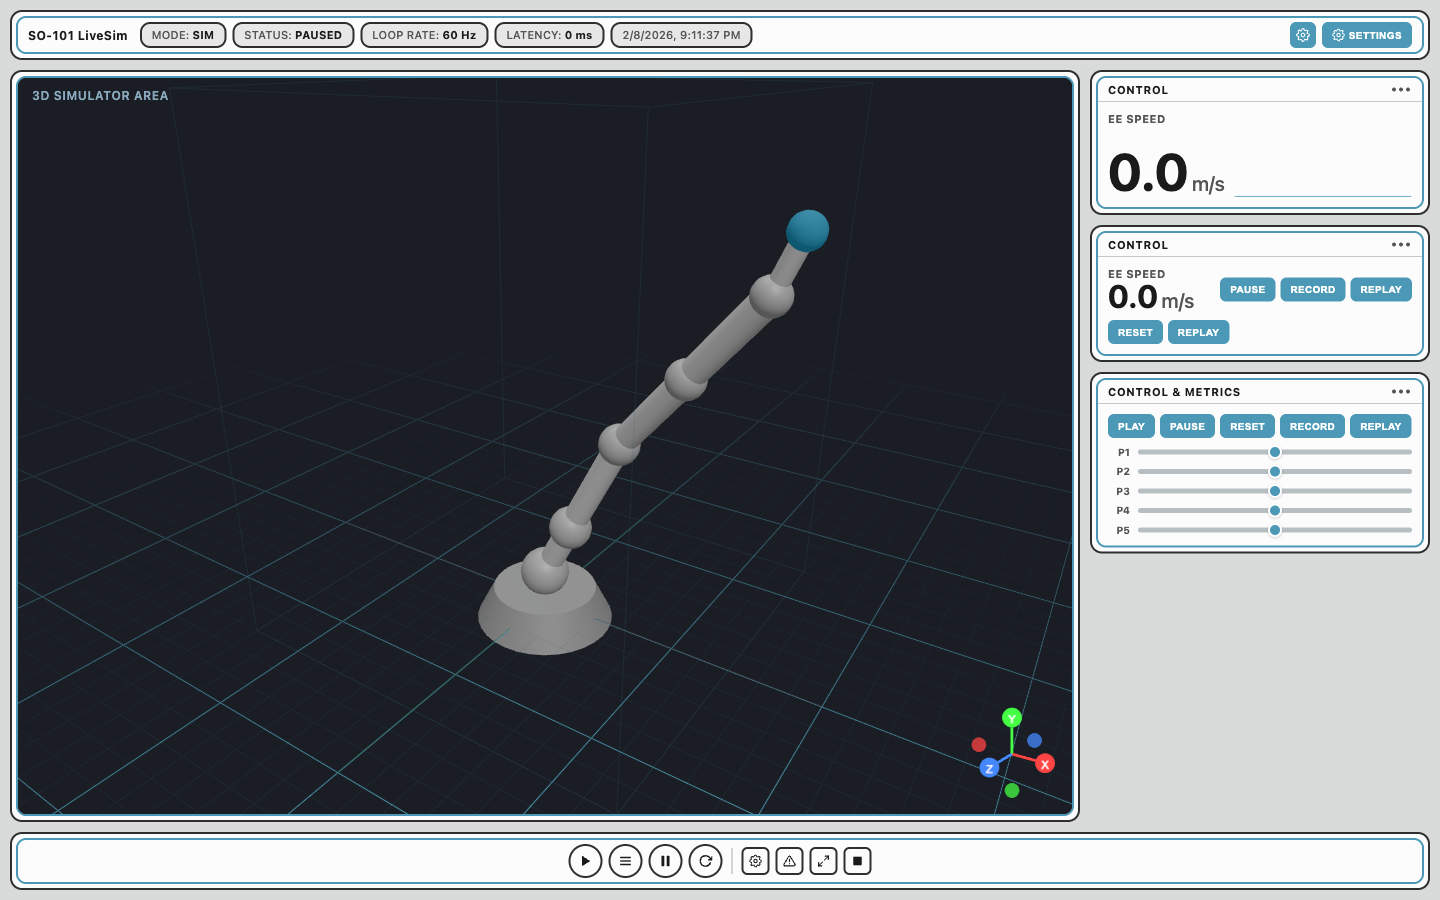
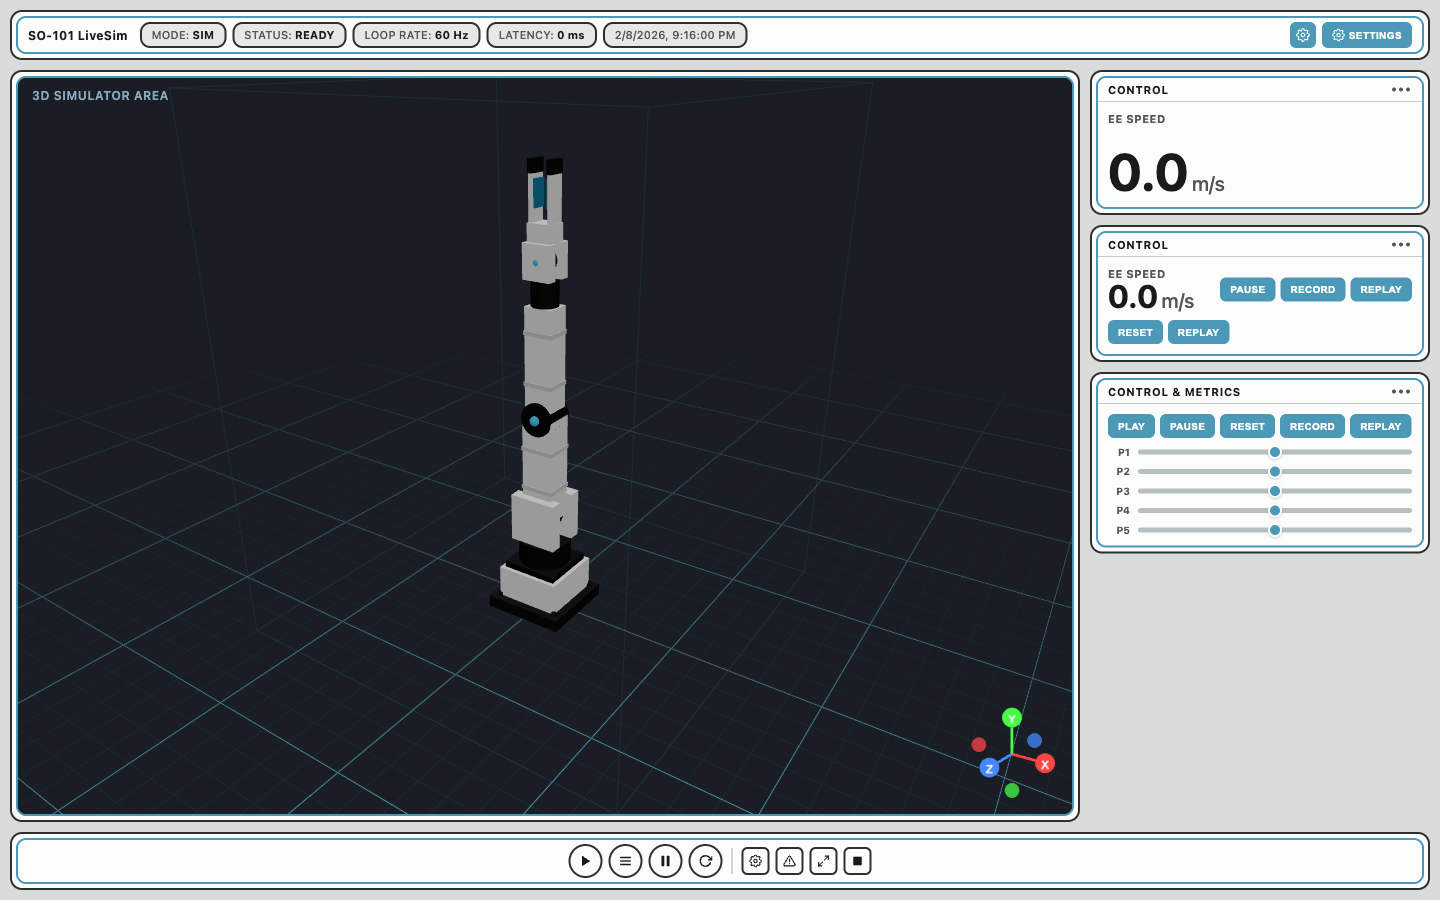
Rebuild robot arm model to match SO-101 appearance
Replace thin cylinder+sphere stick figure with a proper articulated
SO-101 style robot arm:
- Chunky white body panels (box geometries) for each link
- Dark motor housings at each joint (cylinders)
- Teal accent dots at joint pivots
- Two-finger gripper with dark tips and teal grip pads
- Shoulder brackets, detail strips, mounting hole decorations
- Proper proportions matching the SO-101 reference render

Changed region(s): [[0.3125, 0.1556, 0.5938, 0.7467], [0.2188, 0.0311, 0.5312, 0.0622]]

diff --git a/so101-livesim/frontend/src/sim/RobotArmPlaceholder.tsx b/so101-livesim/frontend/src/sim/RobotArmPlaceholder.tsx
@@ -3,8 +3,11 @@ import { useFrame } from "@react-three/fiber";
 import * as THREE from "three";
 
 /**
- * Placeholder 6-DOF robot arm — light/white appearance to match
- * the reference image (white robot on dark 3D background).
+ * SO-101 style 6-DOF robot arm placeholder.
+ *
+ * Built from box/cylinder geometries to match the chunky white
+ * SO-101 appearance: white body panels, dark motor housings,
+ * teal accent dots at joint pivots, and a two-finger gripper.
  *
  * Future: replace with a URDF-loaded mesh.
  */
@@ -13,13 +16,15 @@ interface Props {
   jointsRef: React.MutableRefObject<number[]>;
 }
 
-const LINK_LENGTHS = [0.0, 0.077, 0.13, 0.124, 0.126, 0.0615];
-const LINK_COLOR = "#e8e8e8";
-const JOINT_COLOR = "#d0d0d0";
-const EE_COLOR = "#4b99b7";
-const BASE_COLOR = "#c0c0c0";
+// Colours matching the SO-101 reference render
+const WHITE = "#f0f0f0";
+const DARK = "#2a2a2a";
+const ACCENT = "#4b99b7";
+const GRAY = "#d8d8d8";
 
-const SCALE = 3.0;
+// Scale factor — the robot is modelled in ~0.5m total height,
+// scaled up so it looks good in the scene
+const S = 2.8;
 
 export default function RobotArmPlaceholder({ jointsRef }: Props) {
   const j0 = useRef<THREE.Group>(null!);
@@ -32,57 +37,89 @@ export default function RobotArmPlaceholder({ jointsRef }: Props) {
   useFrame(() => {
     const q = jointsRef.current;
     if (!q || q.length < 6) return;
-    j0.current.rotation.z = q[0];
-    j1.current.rotation.y = q[1];
-    j2.current.rotation.y = q[2];
-    j3.current.rotation.z = q[3];
-    j4.current.rotation.y = q[4];
-    j5.current.rotation.z = q[5];
+    j0.current.rotation.y = q[0];   // base yaw
+    j1.current.rotation.z = q[1];   // shoulder pitch
+    j2.current.rotation.z = q[2];   // elbow pitch
+    j3.current.rotation.y = q[3];   // wrist roll
+    j4.current.rotation.z = q[4];   // wrist pitch
+    j5.current.rotation.y = q[5];   // gripper roll
   });
 
-  const S = SCALE;
-  const L = LINK_LENGTHS.map((l) => l * S);
-
   return (
-    <group position={[0, 0, 0]}>
-      {/* Base pedestal */}
-      <mesh position={[0, L[0] / 2, 0]}>
-        <cylinderGeometry args={[0.06 * S, 0.08 * S, 0.04 * S, 32]} />
-        <meshStandardMaterial color={BASE_COLOR} metalness={0.2} roughness={0.6} />
-      </mesh>
+    <group position={[0, 0, 0]} scale={[S, S, S]}>
+      {/* ======= BASE ======= */}
+      {/* Bottom plate */}
+      <Box args={[0.10, 0.015, 0.10]} y={0.0075} color={DARK} />
+      {/* Base body */}
+      <Box args={[0.08, 0.04, 0.08]} y={0.035} color={WHITE} />
+      {/* Base top plate */}
+      <Box args={[0.07, 0.008, 0.07]} y={0.059} color={DARK} />
+      {/* Mounting holes (decorative) */}
+      <Dot y={0.016} z={0.04} x={0.04} />
+      <Dot y={0.016} z={-0.04} x={0.04} />
+      <Dot y={0.016} z={0.04} x={-0.04} />
+      <Dot y={0.016} z={-0.04} x={-0.04} />
 
-      {/* J0 — base yaw */}
-      <group ref={j0} position={[0, 0.04 * S, 0]}>
-        <Joint radius={0.028 * S} />
+      {/* ======= J0: BASE YAW ======= */}
+      <group ref={j0} position={[0, 0.063, 0]}>
+        {/* Turret motor housing */}
+        <Cyl radius={0.032} height={0.03} y={0.015} color={DARK} />
+        <AccentDot y={0.031} />
 
-        {/* J1 — shoulder pitch */}
-        <group ref={j1}>
-          <Link length={L[1]} />
-          <Joint radius={0.024 * S} y={L[1]} />
+        {/* ======= J1: SHOULDER PITCH ======= */}
+        <group ref={j1} position={[0, 0.03, 0]}>
+          {/* Shoulder bracket (two side plates) */}
+          <Box args={[0.06, 0.06, 0.015]} y={0.03} z={0.02} color={WHITE} />
+          <Box args={[0.06, 0.06, 0.015]} y={0.03} z={-0.02} color={WHITE} />
+          {/* Shoulder motor */}
+          <Cyl radius={0.018} height={0.04} y={0.03} color={DARK} rotX={Math.PI / 2} />
+          <AccentDot y={0.03} z={0.021} />
 
-          {/* J2 — elbow pitch */}
-          <group ref={j2} position={[0, L[1], 0]}>
-            <Link length={L[2]} />
-            <Joint radius={0.022 * S} y={L[2]} />
+          {/* Upper arm link */}
+          <Box args={[0.04, 0.13, 0.035]} y={0.095} color={WHITE} />
+          {/* Detail strips */}
+          <Box args={[0.042, 0.005, 0.037]} y={0.07} color={GRAY} />
+          <Box args={[0.042, 0.005, 0.037]} y={0.12} color={GRAY} />
 
-            {/* J3 — wrist roll */}
-            <group ref={j3} position={[0, L[2], 0]}>
-              <Link length={L[3]} />
-              <Joint radius={0.02 * S} y={L[3]} />
+          {/* ======= J2: ELBOW PITCH ======= */}
+          <group ref={j2} position={[0, 0.16, 0]}>
+            {/* Elbow motor housing */}
+            <Cyl radius={0.02} height={0.04} y={0} color={DARK} rotX={Math.PI / 2} />
+            <AccentDot y={0} z={0.021} />
 
-              {/* J4 — wrist pitch */}
-              <group ref={j4} position={[0, L[3], 0]}>
-                <Link length={L[4]} />
-                <Joint radius={0.018 * S} y={L[4]} />
+            {/* Forearm */}
+            <Box args={[0.035, 0.12, 0.03]} y={0.07} color={WHITE} />
+            <Box args={[0.037, 0.005, 0.032]} y={0.04} color={GRAY} />
+            <Box args={[0.037, 0.005, 0.032]} y={0.10} color={GRAY} />
 
-                {/* J5 — wrist yaw / gripper */}
-                <group ref={j5} position={[0, L[4], 0]}>
-                  <Link length={L[5]} radius={0.009 * S} />
-                  {/* End-effector tip */}
-                  <mesh position={[0, L[5], 0]}>
-                    <sphereGeometry args={[0.016 * S, 16, 16]} />
-                    <meshStandardMaterial color={EE_COLOR} emissive={EE_COLOR} emissiveIntensity={0.15} />
-                  </mesh>
+            {/* ======= J3: WRIST ROLL ======= */}
+            <group ref={j3} position={[0, 0.13, 0]}>
+              {/* Wrist roll motor */}
+              <Cyl radius={0.016} height={0.03} y={0.015} color={DARK} />
+              <AccentDot y={0.031} />
+
+              {/* ======= J4: WRIST PITCH ======= */}
+              <group ref={j4} position={[0, 0.03, 0]}>
+                {/* Wrist pitch bracket */}
+                <Box args={[0.035, 0.04, 0.012]} y={0.02} z={0.012} color={WHITE} />
+                <Box args={[0.035, 0.04, 0.012]} y={0.02} z={-0.012} color={WHITE} />
+                <Cyl radius={0.012} height={0.025} y={0.02} color={DARK} rotX={Math.PI / 2} />
+                <AccentDot y={0.02} z={0.013} />
+
+                {/* ======= J5: GRIPPER ROLL ======= */}
+                <group ref={j5} position={[0, 0.04, 0]}>
+                  {/* Gripper mount */}
+                  <Box args={[0.03, 0.02, 0.025]} y={0.01} color={WHITE} />
+
+                  {/* Gripper fingers */}
+                  <Box args={[0.005, 0.05, 0.02]} y={0.045} x={0.012} color={WHITE} />
+                  <Box args={[0.005, 0.05, 0.02]} y={0.045} x={-0.012} color={WHITE} />
+                  {/* Finger tips (dark) */}
+                  <Box args={[0.006, 0.015, 0.022]} y={0.0775} x={0.012} color={DARK} />
+                  <Box args={[0.006, 0.015, 0.022]} y={0.0775} x={-0.012} color={DARK} />
+                  {/* Inner grip pads */}
+                  <Box args={[0.003, 0.03, 0.016]} y={0.05} x={0.008} color={ACCENT} />
+                  <Box args={[0.003, 0.03, 0.016]} y={0.05} x={-0.008} color={ACCENT} />
                 </group>
               </group>
             </group>
@@ -93,28 +130,66 @@ export default function RobotArmPlaceholder({ jointsRef }: Props) {
   );
 }
 
-function Link({
-  length,
-  color = LINK_COLOR,
-  radius = 0.014 * SCALE,
+/* ---- primitive helpers ---- */
+
+const whiteMat = { color: WHITE, metalness: 0.05, roughness: 0.6 };
+const darkMat = { color: DARK, metalness: 0.2, roughness: 0.5 };
+const grayMat = { color: GRAY, metalness: 0.05, roughness: 0.7 };
+const accentMat = { color: ACCENT, metalness: 0.1, roughness: 0.4 };
+
+function Box({
+  args,
+  x = 0, y = 0, z = 0,
+  color = WHITE,
 }: {
-  length: number;
+  args: [number, number, number];
+  x?: number; y?: number; z?: number;
   color?: string;
-  radius?: number;
 }) {
+  const mat = color === DARK ? darkMat : color === GRAY ? grayMat : color === ACCENT ? accentMat : whiteMat;
   return (
-    <mesh position={[0, length / 2, 0]}>
-      <cylinderGeometry args={[radius, radius, length, 20]} />
-      <meshStandardMaterial color={color} metalness={0.15} roughness={0.55} />
+    <mesh position={[x, y, z]}>
+      <boxGeometry args={args} />
+      <meshStandardMaterial {...mat} color={color} />
     </mesh>
   );
 }
 
-function Joint({ radius, y = 0 }: { radius: number; y?: number }) {
+function Cyl({
+  radius, height,
+  x = 0, y = 0, z = 0,
+  color = DARK,
+  rotX = 0,
+}: {
+  radius: number; height: number;
+  x?: number; y?: number; z?: number;
+  color?: string;
+  rotX?: number;
+}) {
   return (
-    <mesh position={[0, y, 0]}>
-      <sphereGeometry args={[radius, 20, 20]} />
-      <meshStandardMaterial color={JOINT_COLOR} metalness={0.1} roughness={0.5} />
+    <mesh position={[x, y, z]} rotation={[rotX, 0, 0]}>
+      <cylinderGeometry args={[radius, radius, height, 24]} />
+      <meshStandardMaterial color={color} metalness={0.2} roughness={0.5} />
+    </mesh>
+  );
+}
+
+/** Small decorative circle (screw hole / mounting point). */
+function Dot({ x = 0, y = 0, z = 0 }: { x?: number; y?: number; z?: number }) {
+  return (
+    <mesh position={[x, y, z]}>
+      <sphereGeometry args={[0.004, 8, 8]} />
+      <meshStandardMaterial color={DARK} />
+    </mesh>
+  );
+}
+
+/** Teal accent dot at a joint pivot. */
+function AccentDot({ x = 0, y = 0, z = 0 }: { x?: number; y?: number; z?: number }) {
+  return (
+    <mesh position={[x, y, z]}>
+      <sphereGeometry args={[0.006, 12, 12]} />
+      <meshStandardMaterial color={ACCENT} emissive={ACCENT} emissiveIntensity={0.25} />
     </mesh>
   );
 }
